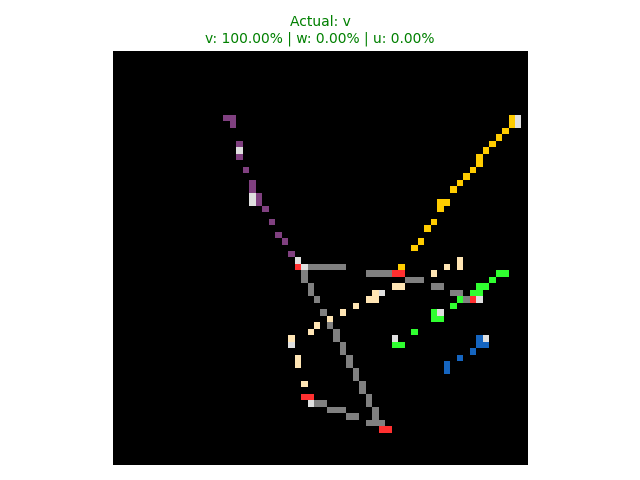
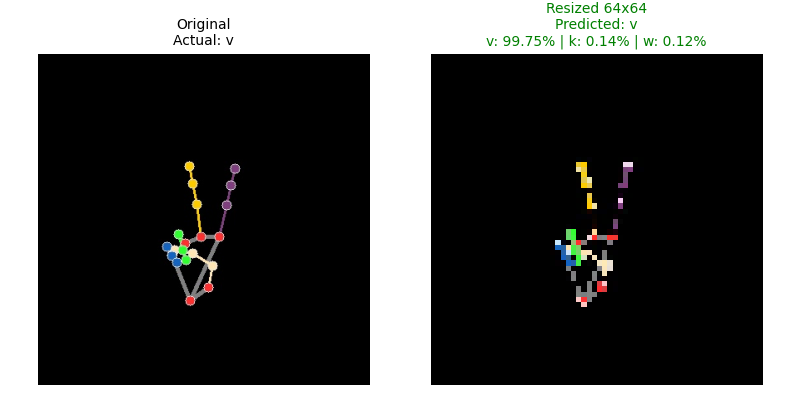
final

diff --git a/MEDIAPIPE/result.py b/MEDIAPIPE/result.py
@@ -13,19 +13,20 @@ model_path = r"E:\INTERN\FINAL MODEL\sign_language_model17.h5"
 data_path = r"E:\INTERN\DATASET\processed_combine_asl_dataset"
 result_path = r"E:\INTERN\RESULT"
 os.makedirs(result_path, exist_ok=True)
+os.makedirs(os.path.join(result_path, "samples"), exist_ok=True)
 
 
+print("Loading model...")
 model = tf.keras.models.load_model(model_path)
 
 
 LABELS = sorted(os.listdir(data_path))
 num_classes = len(LABELS)
 
-
-X, y = [], []
-print("Loading dataset...")
+X, X_orig, y = [], [], []  
 image_limit_per_class = 300
 
+print("Loading dataset...")
 for label_index, label in enumerate(LABELS):
     folder = os.path.join(data_path, label)
     images = [f for f in os.listdir(folder) if f.endswith(".jpg") or f.endswith(".png")]
@@ -34,24 +35,34 @@ for label_index, label in enumerate(LABELS):
     for file in selected_images:
         img_path = os.path.join(folder, file)
         try:
-            img = load_img(img_path, target_size=(64, 64))
-            img_array = img_to_array(img) / 255.0
+            
+            img_orig = load_img(img_path)
+            X_orig.append(np.array(img_orig))
+
+            
+            img_resized = load_img(img_path, target_size=(64, 64))
+            img_array = img_to_array(img_resized) / 255.0
             X.append(img_array)
             y.append(label_index)
         except Exception as e:
             print(f"Error loading image {file}: {e}")
 
+
 X, y = np.array(X), np.array(y)
-_, X_test, _, y_test = train_test_split(X, y, test_size=0.2, stratify=y, random_state=42)
+
+
+_, X_test, _, y_test, _, X_test_orig = train_test_split(
+    X, y, X_orig, test_size=0.2, stratify=y, random_state=42
+)
+
 
 print("Running predictions...")
 y_pred_probs = model.predict(X_test)
 y_pred = np.argmax(y_pred_probs, axis=1)
 
 
-report = classification_report(y_test, y_pred, target_names=LABELS, output_dict=False)
-print("\nClassification Report:")
-print(report)
+report = classification_report(y_test, y_pred, target_names=LABELS)
+print("\nClassification Report:\n", report)
 with open(os.path.join(result_path, "classification_report.txt"), "w") as f:
     f.write(report)
 
@@ -62,51 +73,57 @@ fig, ax = plt.subplots(figsize=(12, 10))
 disp.plot(ax=ax, cmap=plt.cm.Blues, xticks_rotation='vertical')
 plt.title("Confusion Matrix")
 plt.tight_layout()
-confusion_path = os.path.join(result_path, "confusion_matrix.png")
-plt.savefig(confusion_path)
+plt.savefig(os.path.join(result_path, "confusion_matrix.png"))
 plt.show()
 
 
 print("Calculating ROC curves...")
 y_test_bin = label_binarize(y_test, classes=list(range(num_classes)))
-fpr, tpr, _ = roc_curve(y_test_bin.ravel(), y_pred_probs.ravel())
 roc_auc = roc_auc_score(y_test_bin, y_pred_probs, average="macro", multi_class="ovo")
+fpr, tpr, _ = roc_curve(y_test_bin.ravel(), y_pred_probs.ravel())
+
 plt.figure()
-plt.plot(fpr, tpr, color='darkorange', lw=2, label=f"ROC curve (area = {roc_auc:.2f})")
+plt.plot(fpr, tpr, color='darkorange', lw=2, label=f"ROC curve (AUC = {roc_auc:.2f})")
 plt.plot([0, 1], [0, 1], color='navy', lw=2, linestyle='--')
 plt.xlabel("False Positive Rate")
 plt.ylabel("True Positive Rate")
-plt.title("Receiver Operating Characteristic (ROC)")
+plt.title("ROC Curve")
 plt.legend(loc="lower right")
-roc_path = os.path.join(result_path, "roc_curve.png")
-plt.savefig(roc_path)
+plt.savefig(os.path.join(result_path, "roc_curve.png"))
 plt.show()
 
 
-print("Saving sample predictions...")
-os.makedirs(os.path.join(result_path, "samples"), exist_ok=True)
-for i in range(25):
-    img = (X_test[i] * 255).astype(np.uint8)
+print("Saving sample predictions (showing original + 64x64 input)...")
+num_samples = min(25, len(X_test))
+for i in range(num_samples):
+    orig_img = X_test_orig[i]
+    resized_img = (X_test[i] * 255).astype(np.uint8)
     actual = LABELS[y_test[i]]
     probs = y_pred_probs[i]
     top3 = np.argsort(probs)[-3:][::-1]
     pred_str = " | ".join([f"{LABELS[idx]}: {probs[idx]*100:.2f}%" for idx in top3])
     pred_label = LABELS[top3[0]]
-    title_color = ("green" if actual == pred_label else "red")
+    title_color = "green" if actual == pred_label else "red"
 
-    plt.imshow(img)
-    plt.title(f"Actual: {actual}\n{pred_str}", fontsize=10, color=title_color)
-    plt.axis("off")
+    fig, axes = plt.subplots(1, 2, figsize=(8, 4))
+    axes[0].imshow(orig_img)
+    axes[0].set_title(f"Original\nActual: {actual}", fontsize=10)
+    axes[0].axis("off")
+
+    axes[1].imshow(resized_img)
+    axes[1].set_title(f"Resized 64x64\nPredicted: {pred_label}\n{pred_str}", fontsize=10, color=title_color)
+    axes[1].axis("off")
+
     plt.tight_layout()
     plt.savefig(os.path.join(result_path, "samples", f"sample_{i}.png"))
     plt.close()
 
 
+accuracy = np.mean(y_pred == y_test)
+error_rate = 1 - accuracy
 with open(os.path.join(result_path, "summary.txt"), "w") as f:
-    accuracy = np.mean(y_pred == y_test)
-    error_rate = 1 - accuracy
     f.write(f"Accuracy: {accuracy*100:.2f}%\n")
     f.write(f"Error Rate: {error_rate*100:.2f}%\n")
     f.write(f"ROC AUC: {roc_auc:.4f}\n")
 
-print("\nAll evaluation results saved to E:\\INTERN\\RESULT")
+print("\nAll evaluation results saved to:", result_path)
